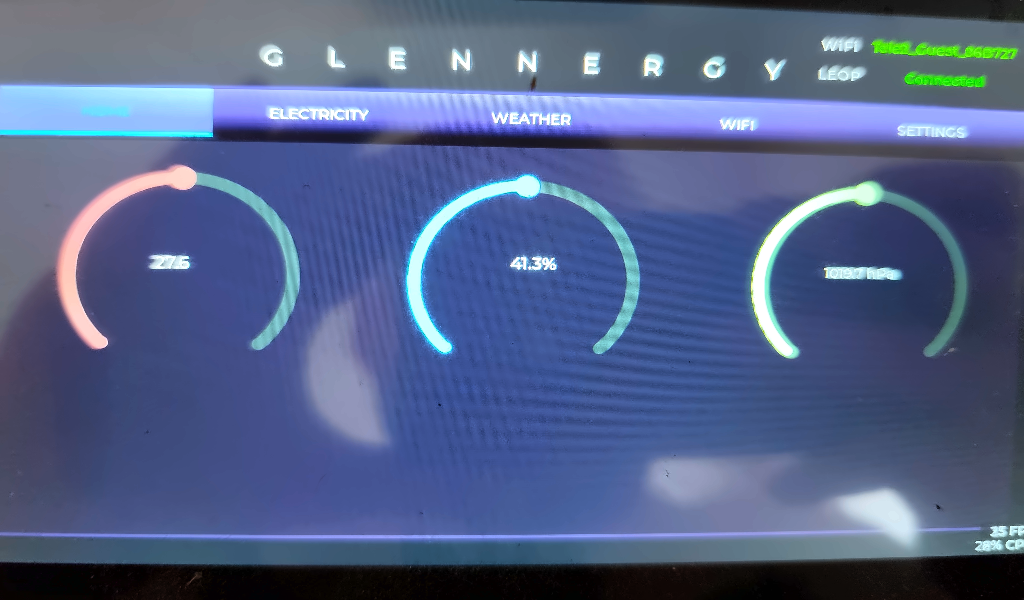
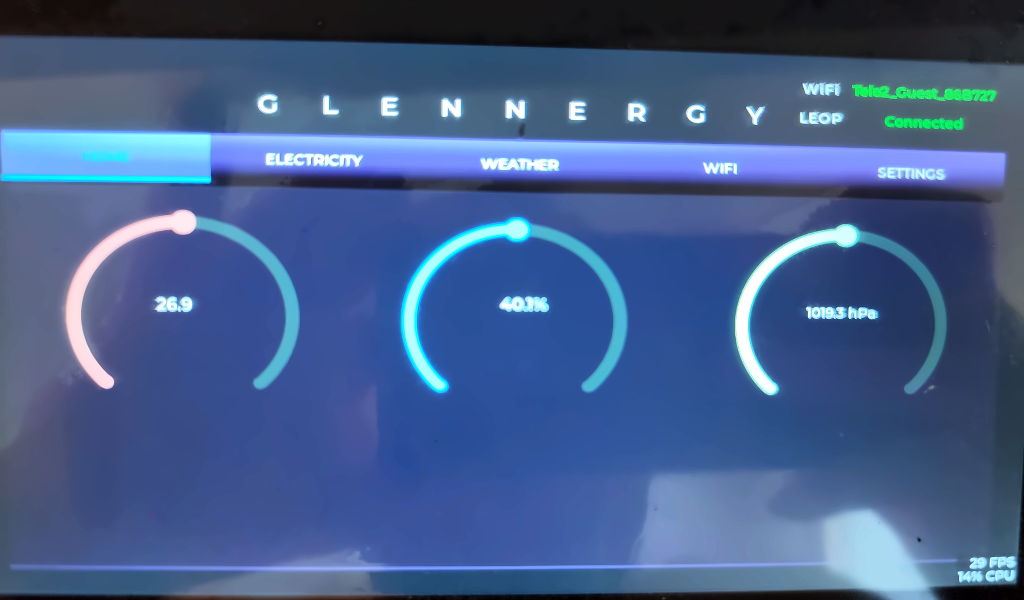
docs: improve home and weather screen photos

diff --git a/docs/user-guide.md b/docs/user-guide.md
@@ -4,10 +4,12 @@ This guide explains the touchscreen without requiring programming knowledge.
 Tap a tab along the top to move between the five screens.
 
 > These are corrected photographs of a real Glennergy display. The photographs
-> were rotated, perspective-corrected, cropped to 1024 × 600, lightly denoised,
-> and sharpened. No UI elements, text, values, dimensions, or network names were
-> regenerated or replaced. Live readings and status values will naturally
-> differ on another device or at another time.
+> were registered where multiple matching frames were available, then
+> perspective-corrected, cropped to 1024 × 600, lightly denoised, and sharpened.
+> Multi-frame fusion was limited to stable, matching pixels. No UI elements,
+> text, values, dimensions, or network names were regenerated or replaced. Live
+> readings and status values will naturally differ on another device or at
+> another time.
 
 ## At a glance
 
